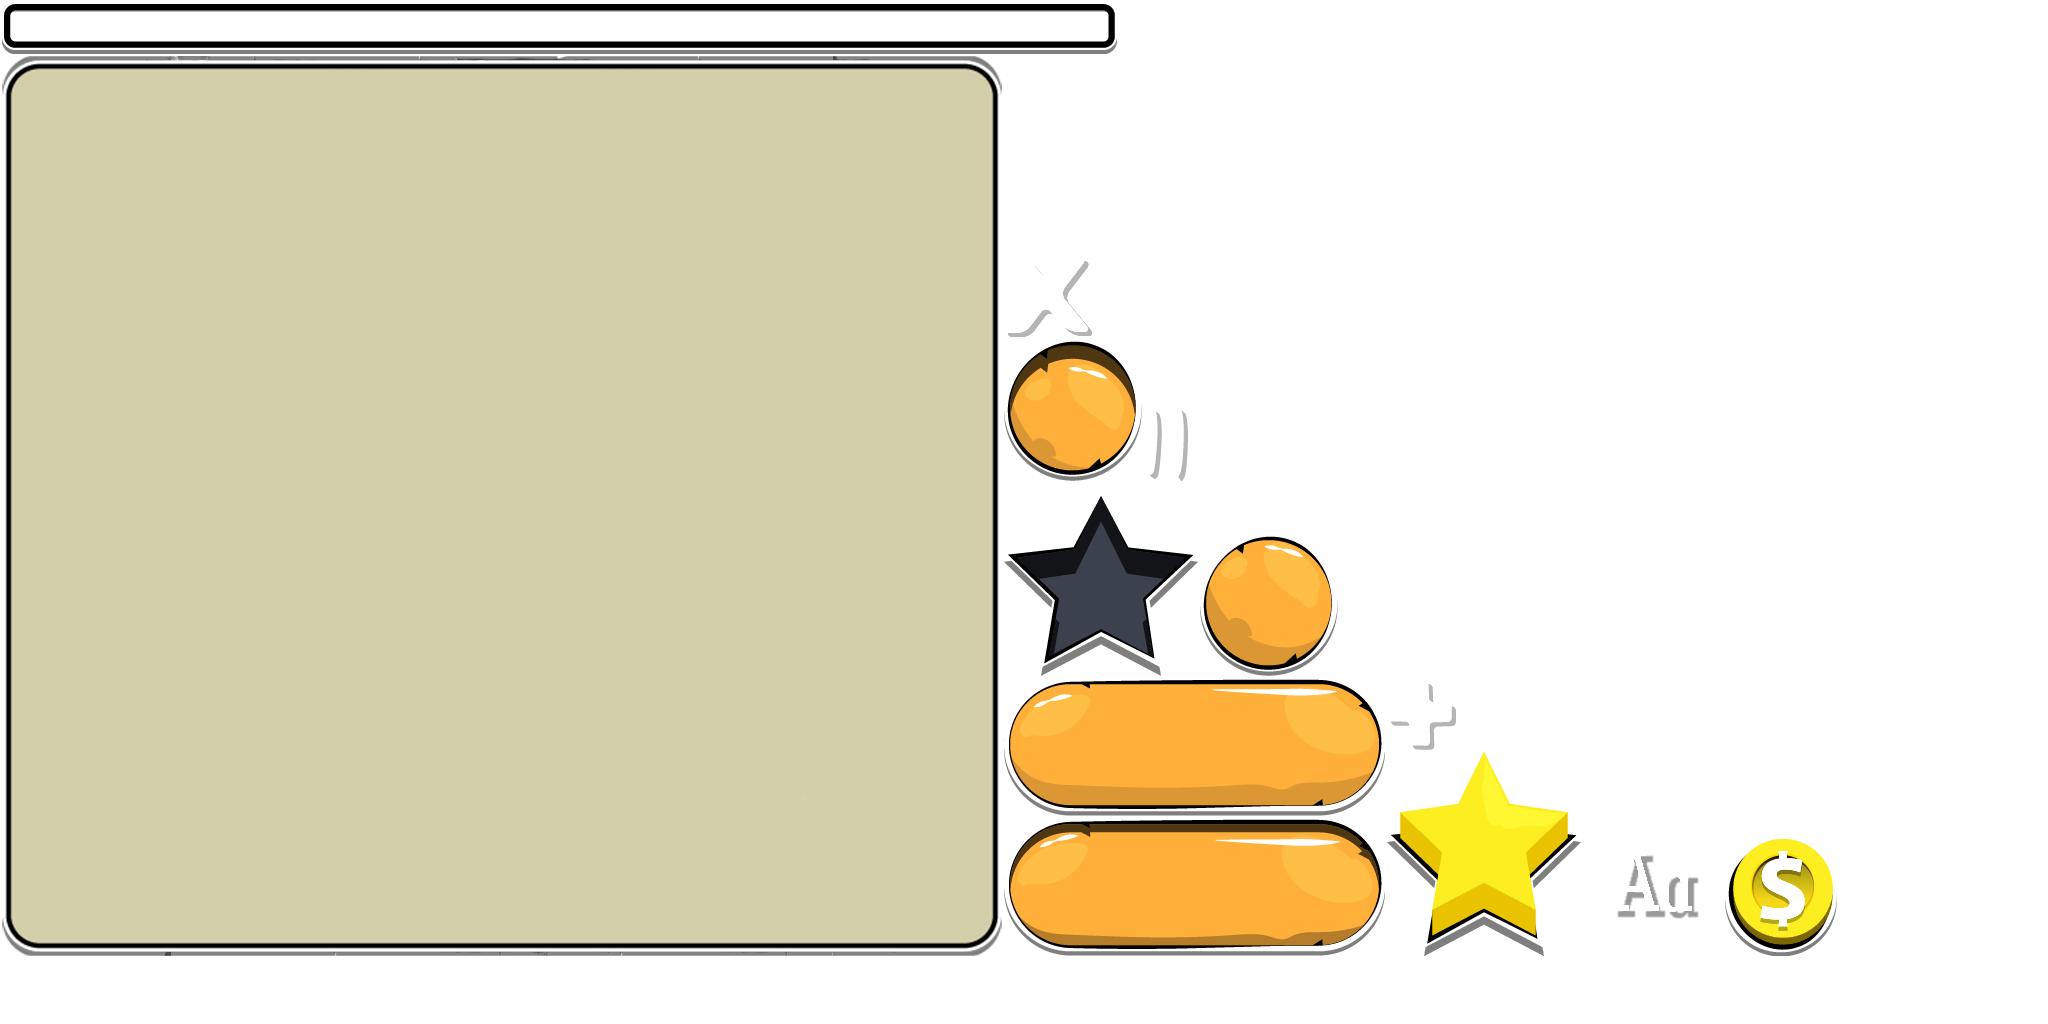
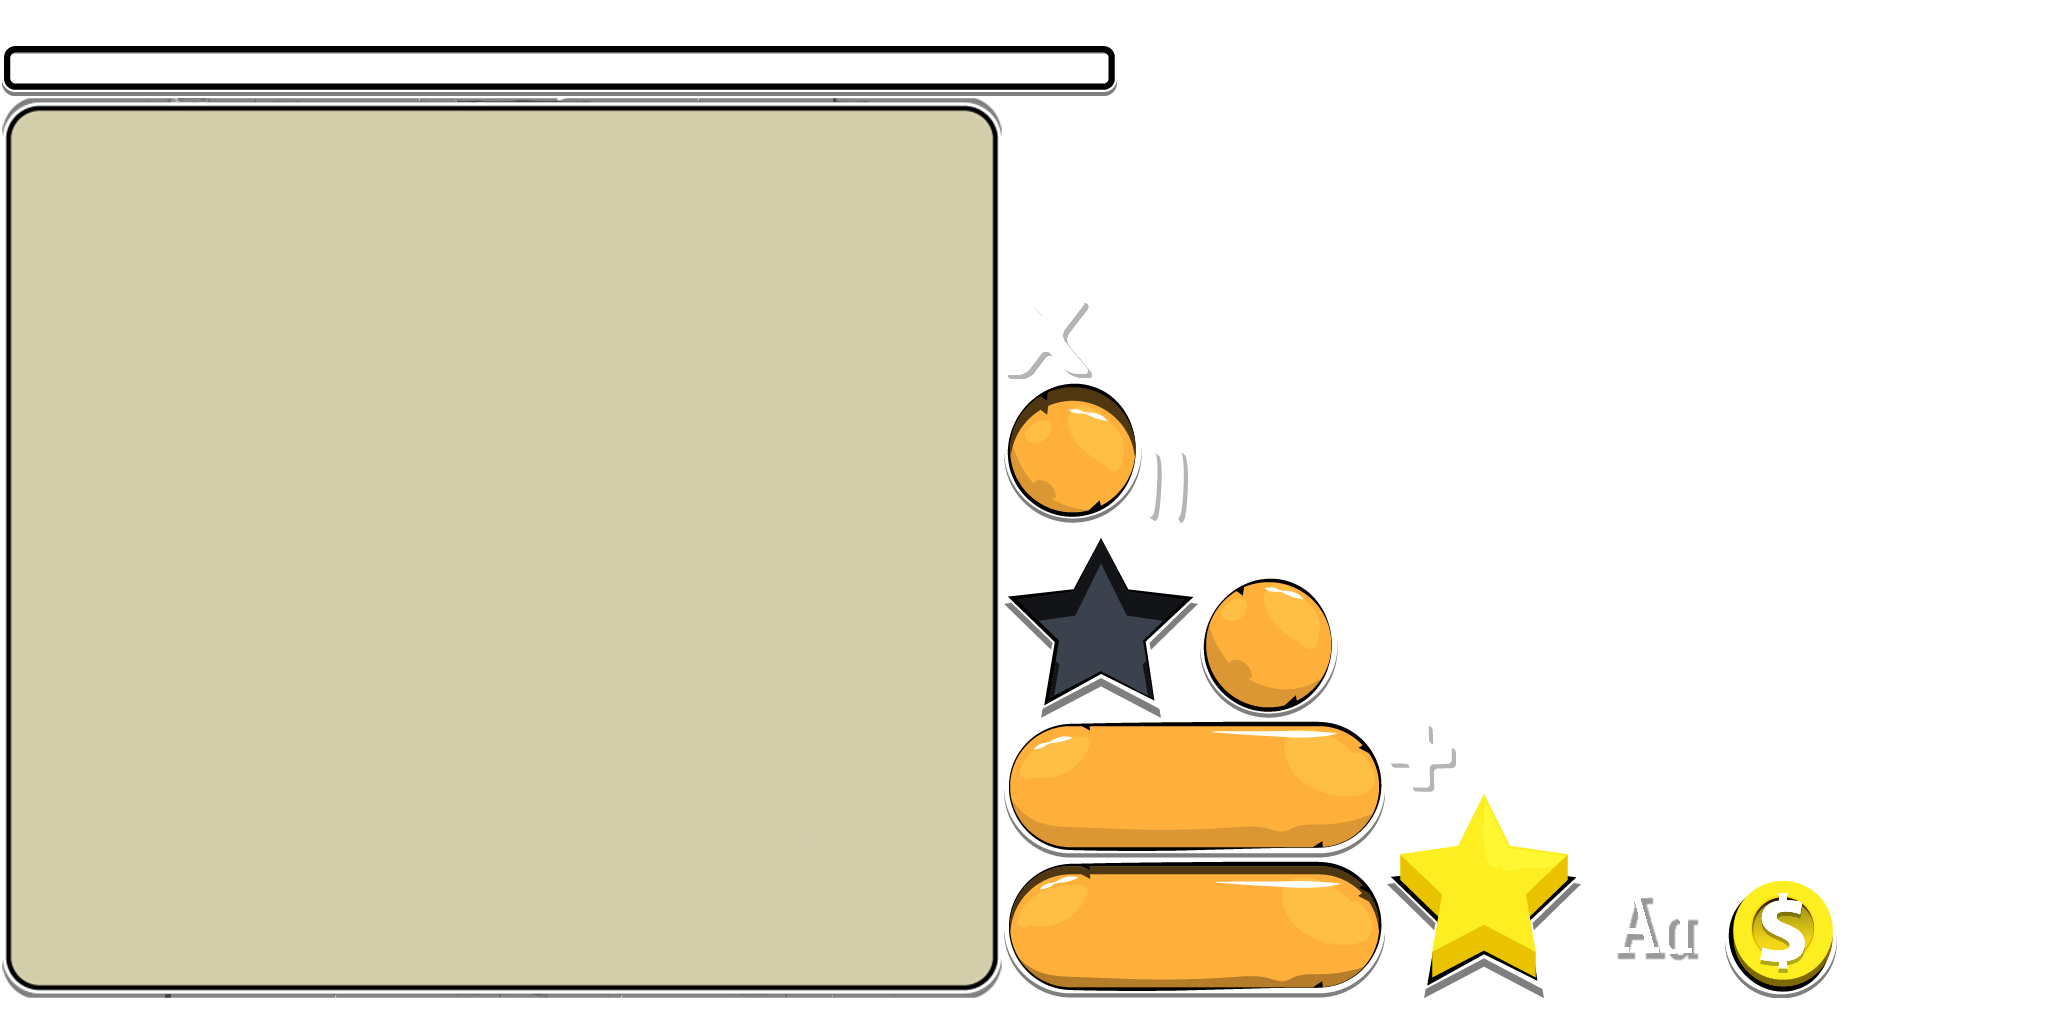
New Loading Screen

Changed region(s): [[0.0, 0.2812, 0.9062, 1.0], [0.0, 0.0, 0.5625, 0.125]]

diff --git a/core/src/com/vb/ilt/screen/loading/LoadingScreen.java b/core/src/com/vb/ilt/screen/loading/LoadingScreen.java
@@ -9,6 +9,7 @@ import com.badlogic.gdx.utils.viewport.FitViewport;
 import com.badlogic.gdx.utils.viewport.Viewport;
 import com.vb.ilt.InteractiveLangTeacherGame;
 import com.vb.ilt.assets.AssetDescriptors;
+import com.vb.ilt.assets.RegionNames;
 import com.vb.ilt.common.GameManager;
 import com.vb.ilt.config.GameConfig;
 import com.vb.ilt.screen.menu.MainMenuScreen;
@@ -32,6 +33,8 @@ public class LoadingScreen extends ScreenAdapter {
     private final InteractiveLangTeacherGame game;
     private final AssetManager assetManager;
 
+    private LoadingStage loadingStage;
+
     public LoadingScreen(InteractiveLangTeacherGame game) {
         this.game = game;
         assetManager = game.getAssetManager();
@@ -39,14 +42,26 @@ public class LoadingScreen extends ScreenAdapter {
 
     @Override
     public void show() {
-        log.debug("show");
+
         camera = new OrthographicCamera();
         viewport = new FitViewport(GameConfig.HUD_WIDTH, GameConfig.HUD_HEIGHT, camera);
         renderer = new ShapeRenderer();
 
+        assetManager.load(AssetDescriptors.HUD);
+        assetManager.finishLoading();
+
+        log.debug("IS NULL: " + (assetManager.get(AssetDescriptors.HUD).findRegion(RegionNames.BAR_FRAME) == null));
+        log.debug("IS NULL: " + (assetManager.get(AssetDescriptors.HUD).findRegion(RegionNames.BAR) == null));
+        loadingStage = new LoadingStage(viewport, game.getBatch(),
+                assetManager.get(AssetDescriptors.HUD).findRegion(RegionNames.BAR_FRAME),
+                assetManager.get(AssetDescriptors.HUD).findRegion(RegionNames.BAR));
+
+        log.debug("show");
+
+
         assetManager.load(AssetDescriptors.DEFAULT_FONT);
         assetManager.load(AssetDescriptors.STENCIL_FONT);
-        assetManager.load(AssetDescriptors.HUD);
+
         assetManager.load(AssetDescriptors.UI_SKIN);
         assetManager.load(AssetDescriptors.PLAYER);
         assetManager.load(AssetDescriptors.NPC);
@@ -65,23 +80,17 @@ public class LoadingScreen extends ScreenAdapter {
         update(delta);
 
         GdxUtils.clearScreen();
-        viewport.apply();
-        renderer.setProjectionMatrix(camera.combined);
-        renderer.begin(ShapeRenderer.ShapeType.Filled);
 
         draw();
 
-        renderer.end();
-
         if (changeScreen) {
-            //TODO Temporary hard coded level
             game.setScreen(new MainMenuScreen(game));
         }
     }
 
     private void update(float delta) {
         progress = assetManager.getProgress();
-
+        loadingStage.setBarWidth(progress);
         if (assetManager.update()) {
             waitTime -= delta;
 
@@ -92,11 +101,8 @@ public class LoadingScreen extends ScreenAdapter {
     }
 
     private void draw() {
-        float progressBarX = (GameConfig.HUD_WIDTH - PROGRESS_BAR_WIDTH) / 2f;
-        float progressBarY = (GameConfig.HUD_HEIGHT - PROGRESS_BAR_HEIGHT) / 2f;
-
-        renderer.rect(progressBarX, progressBarY,
-                progress * PROGRESS_BAR_WIDTH, PROGRESS_BAR_HEIGHT);
+        loadingStage.act();
+        loadingStage.draw();
     }
 
     @Override

diff --git a/core/src/com/vb/ilt/screen/loading/LoadingStage.java b/core/src/com/vb/ilt/screen/loading/LoadingStage.java
@@ -1,0 +1,52 @@
+package com.vb.ilt.screen.loading;
+
+import com.badlogic.gdx.graphics.g2d.SpriteBatch;
+import com.badlogic.gdx.graphics.g2d.TextureRegion;
+import com.badlogic.gdx.scenes.scene2d.Actor;
+import com.badlogic.gdx.scenes.scene2d.Stage;
+import com.badlogic.gdx.scenes.scene2d.ui.Label;
+import com.badlogic.gdx.scenes.scene2d.ui.Table;
+import com.badlogic.gdx.scenes.scene2d.utils.TextureRegionDrawable;
+import com.badlogic.gdx.utils.viewport.Viewport;
+
+public class LoadingStage extends Stage{
+
+    private static final float MAX_BAR_WIDTH = 1105f;
+
+    protected Label text;
+    private TextureRegion barFrameRegion;
+    private TextureRegion barRegion;
+    private Actor bar;
+    private Table barFrame;
+
+    protected TextureRegion region;
+
+    public LoadingStage(Viewport viewport, SpriteBatch batch, TextureRegion barFrameRegion, TextureRegion barRegion) {
+        super(viewport, batch);
+        this.barRegion = barRegion;
+        this.barFrameRegion = barFrameRegion;
+        init();
+    }
+
+    private void init() {
+        Table container = new Table();
+        container.setFillParent(true);
+
+        this.barFrame = new Table();
+        barFrame.setBackground(new TextureRegionDrawable(barFrameRegion));
+
+        this.bar = new LoadingBar(barRegion);
+        this.bar.setHeight(38f);
+        this.bar.setPosition(0f, 0f);
+
+        barFrame.add(bar).width(MAX_BAR_WIDTH).padBottom(4f);
+        container.add(barFrame).center();
+
+        this.addActor(container);
+    }
+
+    public void setBarWidth(float percent){
+        bar.setWidth(MAX_BAR_WIDTH * percent);
+        bar.setX(((MAX_BAR_WIDTH / 2f) - bar.getWidth() / 2f) + 5f);
+    }
+}

diff --git a/core/src/com/vb/ilt/ui/stages/HudStage.java b/core/src/com/vb/ilt/ui/stages/HudStage.java
@@ -17,8 +17,8 @@ import com.vb.ilt.assets.AssetDescriptors;
 import com.vb.ilt.assets.ButtonStyleNames;
 import com.vb.ilt.assets.RegionNames;
 import com.vb.ilt.common.GameManager;
-import com.vb.ilt.systems.active.MonologueSystem;
 import com.vb.ilt.systems.active.HudSystem;
+import com.vb.ilt.systems.active.MonologueSystem;
 import com.vb.ilt.systems.active.MovementSystem;
 import com.vb.ilt.systems.active.PlayerControlSystem;
 import com.vb.ilt.ui.tables.DictionaryTable;
@@ -57,7 +57,6 @@ public class HudStage extends Stage{
     private void init(){
         Table mainTable = new Table();
         mainTable.defaults().pad(20);
-
         Table buttonTable = new Table();
         this.dictTable.setVisible(false);
 

diff --git a/core/src/com/vb/ilt/screen/loading/LoadingBar.java b/core/src/com/vb/ilt/screen/loading/LoadingBar.java
@@ -1,0 +1,20 @@
+package com.vb.ilt.screen.loading;
+
+import com.badlogic.gdx.graphics.g2d.Batch;
+import com.badlogic.gdx.graphics.g2d.TextureRegion;
+import com.badlogic.gdx.scenes.scene2d.Actor;
+
+public class LoadingBar extends Actor {
+
+    TextureRegion barRegion;
+
+    public LoadingBar(TextureRegion barRegion) {
+        this.barRegion = barRegion;
+    }
+
+
+    @Override
+    public void draw(Batch batch, float parentAlpha) {
+        batch.draw(barRegion, getX(), getY(), getWidth(), getHeight());
+    }
+}

diff --git a/core/src/com/vb/ilt/assets/RegionNames.java b/core/src/com/vb/ilt/assets/RegionNames.java
@@ -26,6 +26,9 @@ public final class RegionNames {
     public static final String STAR = "star";
     public static final String EMPTY_STAR = "empty-star";
 
+    public static final String BAR_FRAME = "bar-frame";
+    public static final String BAR = "bar";
+
     public static final String NPC_SHEPHERD = CharacterType.FROG.name().toLowerCase();
     public static final String NPC_BLACKSMITH = CharacterType.BEE.name().toLowerCase();
     public static final String NPC_MERCHANT = CharacterType.CAT.name().toLowerCase();

diff --git a/core/src/com/vb/ilt/assets/AssetPaths.java b/core/src/com/vb/ilt/assets/AssetPaths.java
@@ -13,7 +13,6 @@ public final class AssetPaths {
     public static final String CLOSE_UP = "characters/close_up/close_up.atlas";
     public static final String DIALOGS = "panels/panels.atlas";
 
-
     public static final String STEP_SOUND = "sounds/step.wav";
     public static final String DOOR_SOUND = "sounds/door.wav";
     public static final String FINISHED_SOUND = "sounds/finished.wav";
